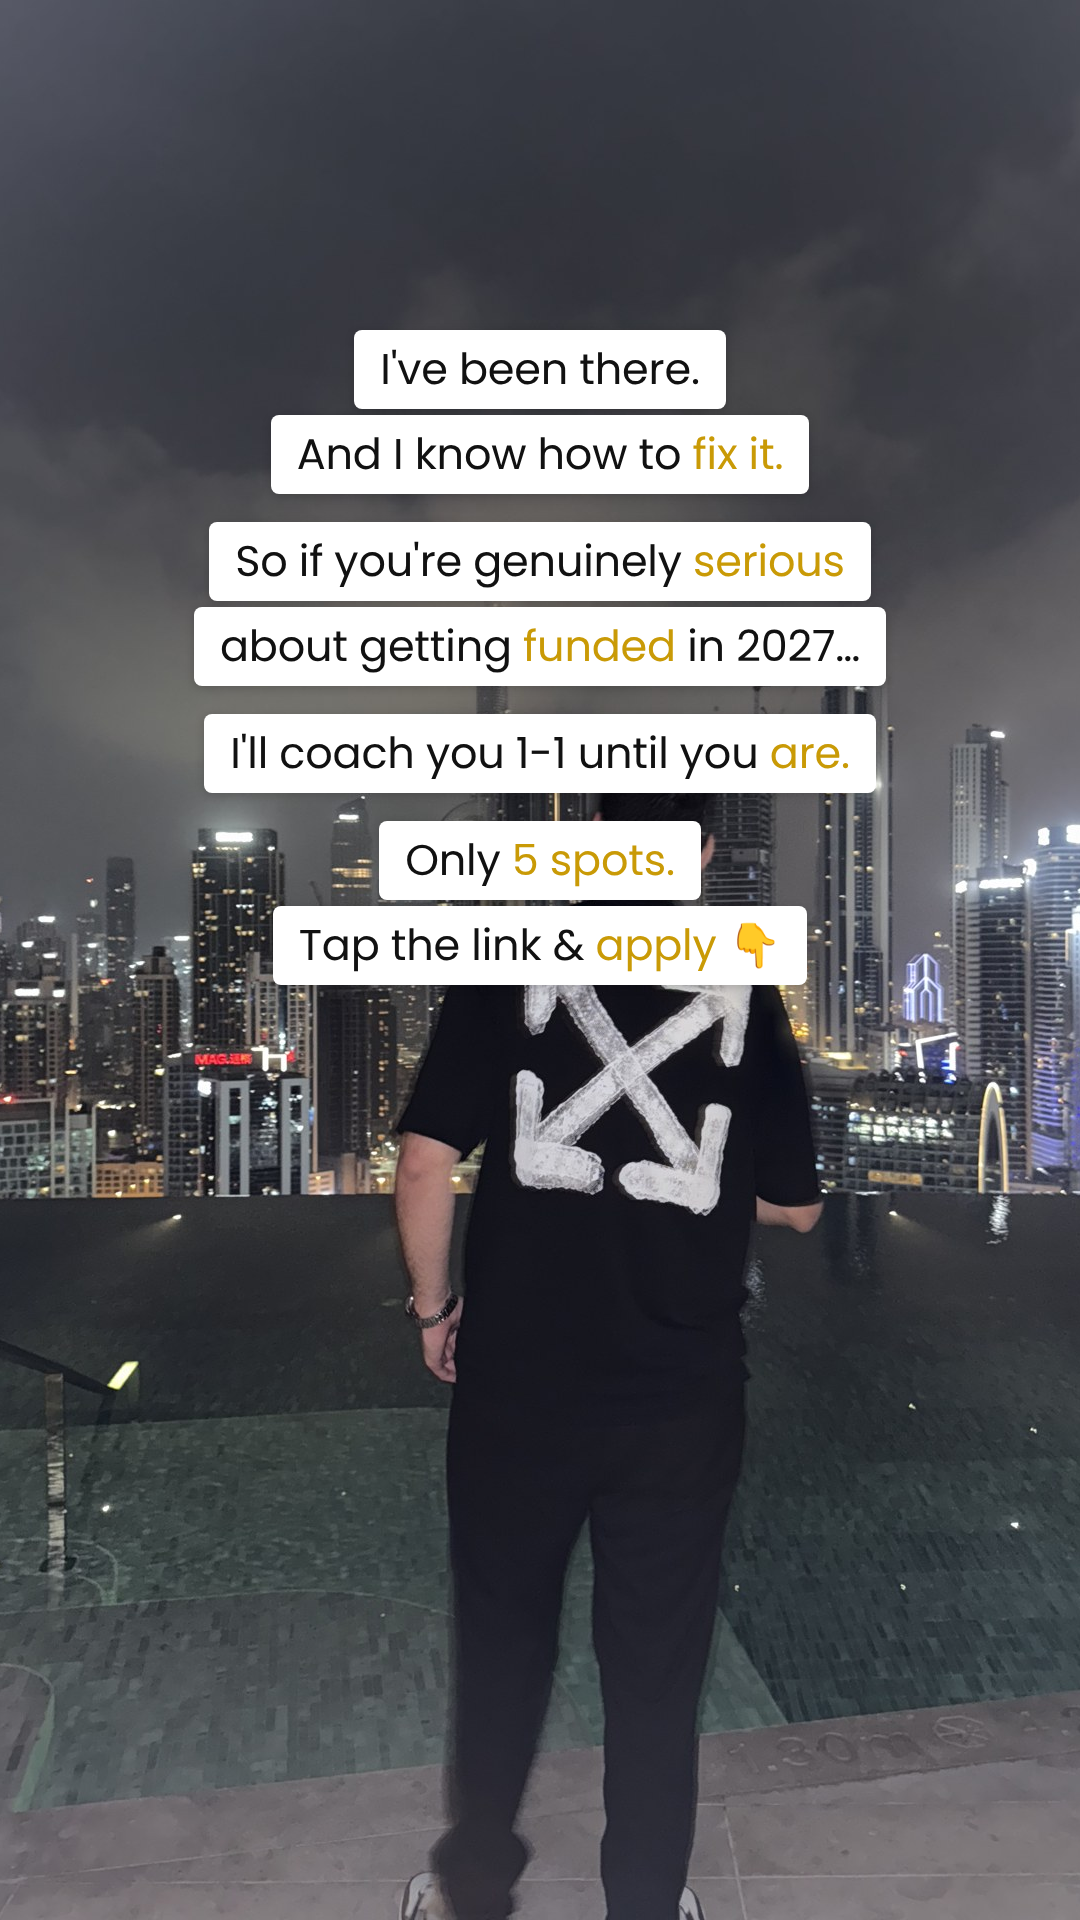
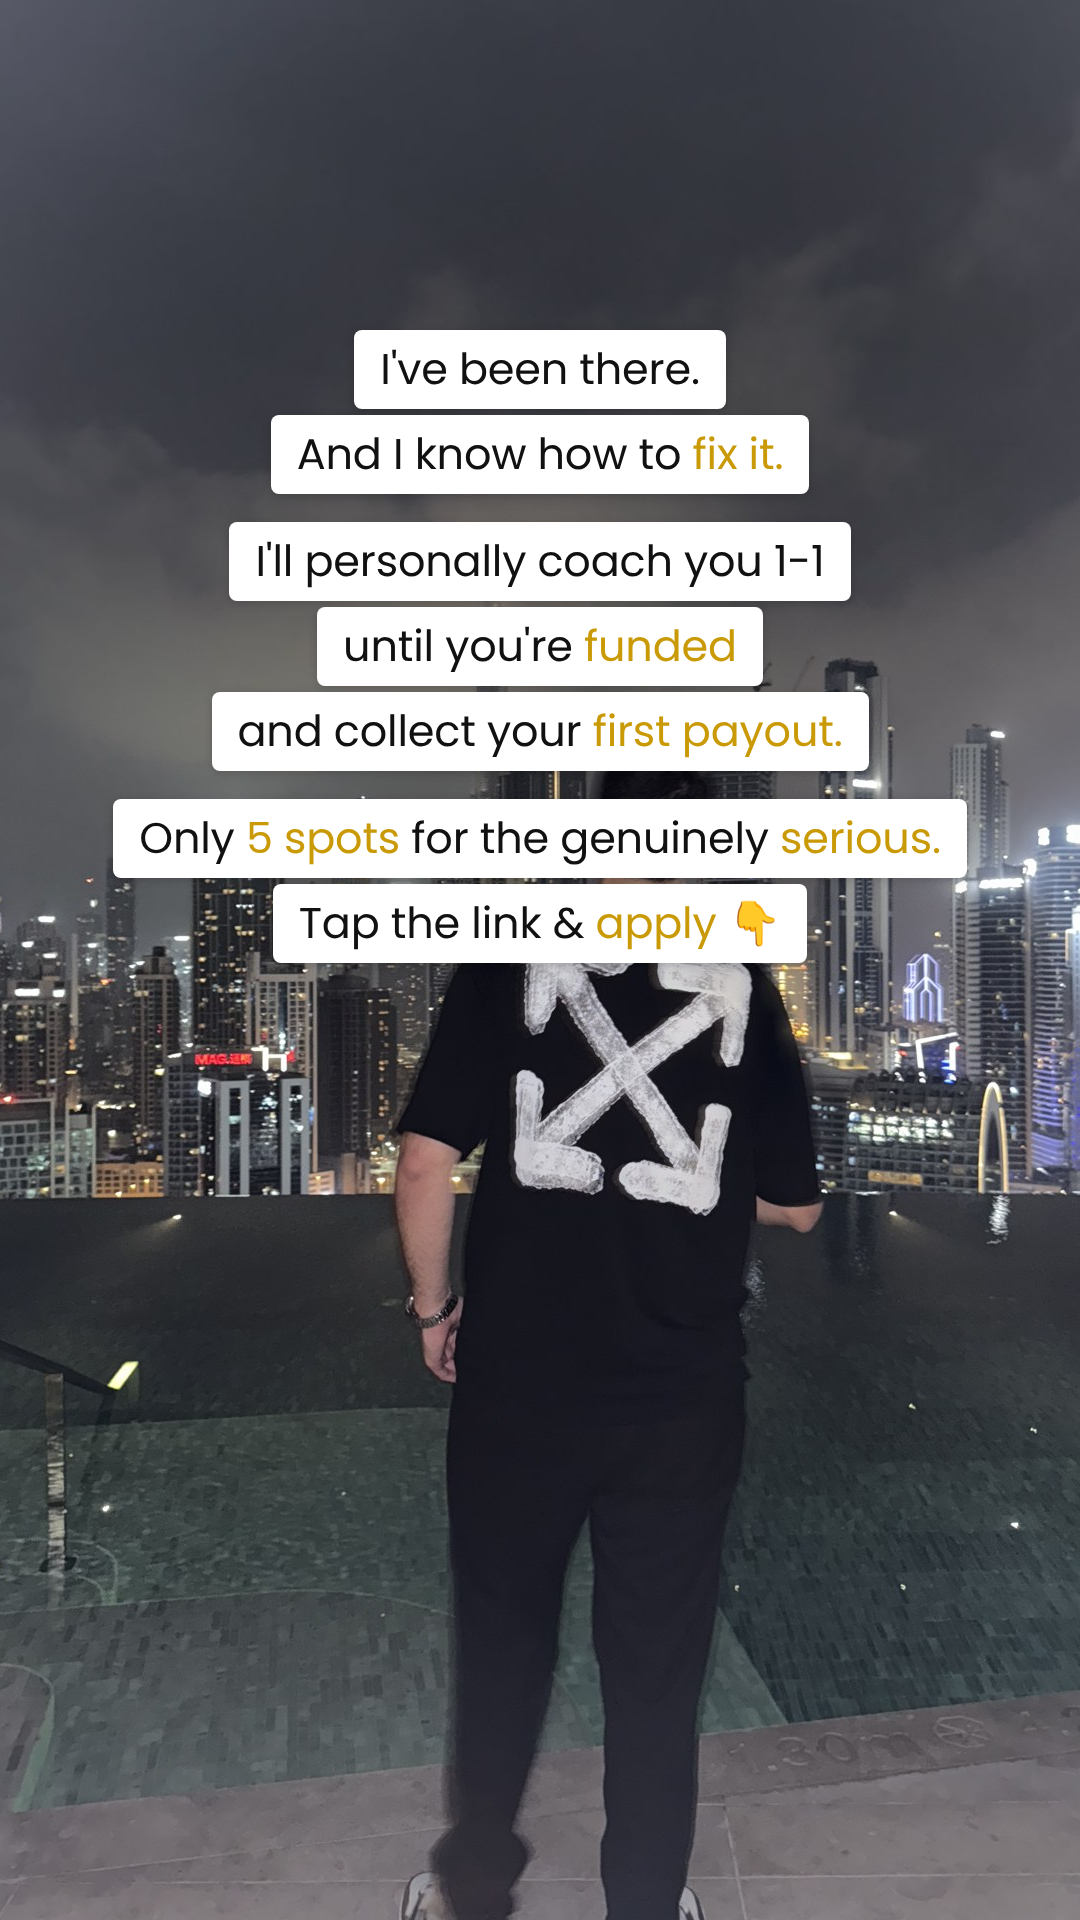
Strengthen frame 04 offer: coached 1-1 until funded and first payout
Claude-Session: https://claude.ai/code/session_015aTEPXDLdQUfqpoP6cz2Re

Changed region(s): [[0.0917, 0.25, 0.9167, 0.5312]]

diff --git a/sequences/2026-11-23_hard_elite-mentorship-launch/frames/04.html b/sequences/2026-11-23_hard_elite-mentorship-launch/frames/04.html
@@ -3,10 +3,10 @@
 <div class="stack" style="top:330px">
 <p>I&#39;ve been there.</p>
 <p>And I know how to <span class="g">fix it.</span></p>
-<p class="gap">So if you&#39;re genuinely <span class="g">serious</span></p>
-<p>about getting <span class="g">funded</span> in 2027&hellip;</p>
-<p class="gap">I&#39;ll coach you 1-1 until you <span class="g">are.</span></p>
-<p class="gap">Only <span class="g">5 spots.</span></p>
+<p class="gap">I&#39;ll personally coach you 1-1</p>
+<p>until you&#39;re <span class="g">funded</span></p>
+<p>and collect your <span class="g">first payout.</span></p>
+<p class="gap">Only <span class="g">5 spots</span> for the genuinely <span class="g">serious.</span></p>
 <p>Tap the link &amp; <span class="g">apply</span> 👇</p>
 </div>
 </body></html>

diff --git a/sequences/2026-11-23_hard_elite-mentorship-launch/sequence.md b/sequences/2026-11-23_hard_elite-mentorship-launch/sequence.md
@@ -14,7 +14,7 @@
 1. Flex → vulnerability: construction → Dubai, more than he dreamed of → NOT easy, almost quit
 2. Low point (blew accounts, ICT, guessing) → a friend: learn order flow → saw who's really buying/selling
 3. People DM asking how I trade → opening 5 spots for 1-1 → "If you're still:" pain list → "You don't have to take that into 2027." (yellow arrow)
-4. I've been there, I know how to fix it → genuinely serious about getting funded → I'll coach you 1-1 until you are → 5 spots → tap the link & apply
+4. I've been there, I know how to fix it → I'll coach you 1-1 until you're funded and collect your first payout → 5 spots for the genuinely serious → tap the link & apply
 
 ## Frames
 
@@ -31,7 +31,7 @@
 - **Assets:** `assets/03-boardwalk.jpg` (IMG_3780)
 
 ### 04: Hard CTA (ref H1 frame 11)
-- **Copy:** I've been there. / And I know how to fix it. / So if you're genuinely serious / about getting funded in 2027… / I'll coach you 1-1 until you are. / Only 5 spots. / Tap the link & apply 👇
+- **Copy:** I've been there. / And I know how to fix it. / I'll personally coach you 1-1 / until you're funded / and collect your first payout. / Only 5 spots for the genuinely serious. / Tap the link & apply 👇
 - **Assets:** `assets/04-rooftop.jpg` (IMG_5401)
 - **Add in app:** **link sticker** to the apply page, on his back (~y 1100–1300)
 
